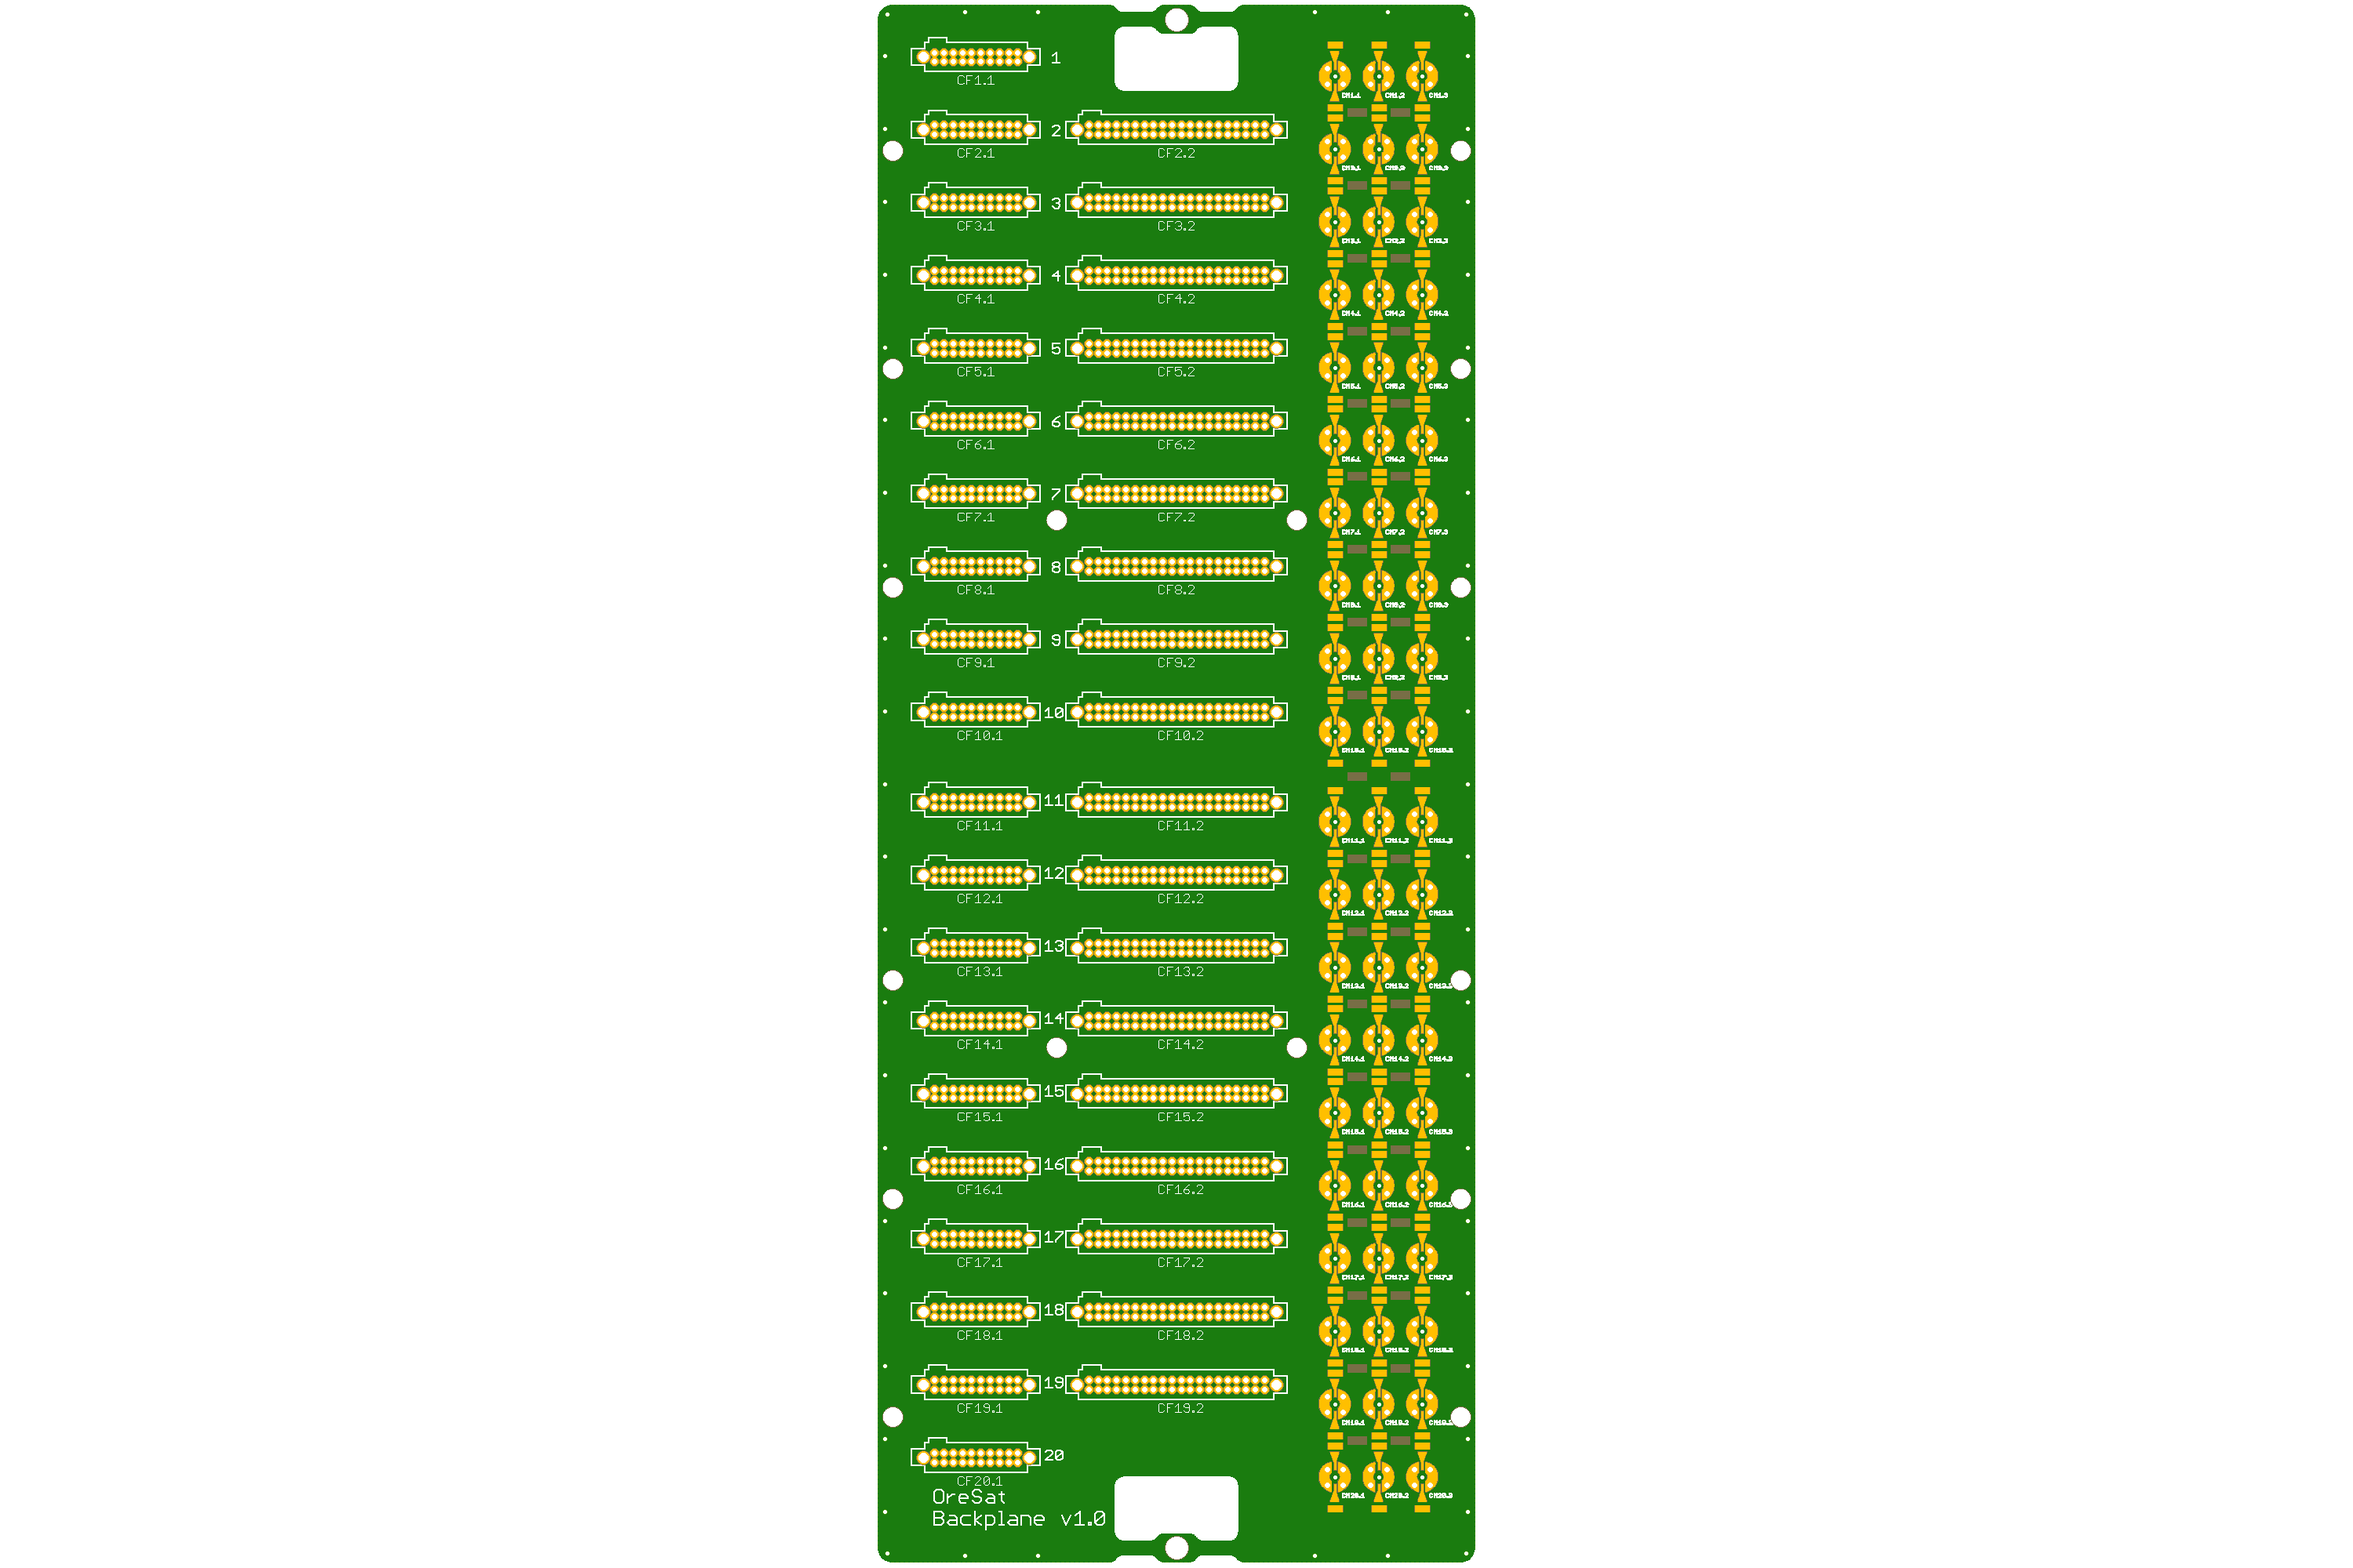
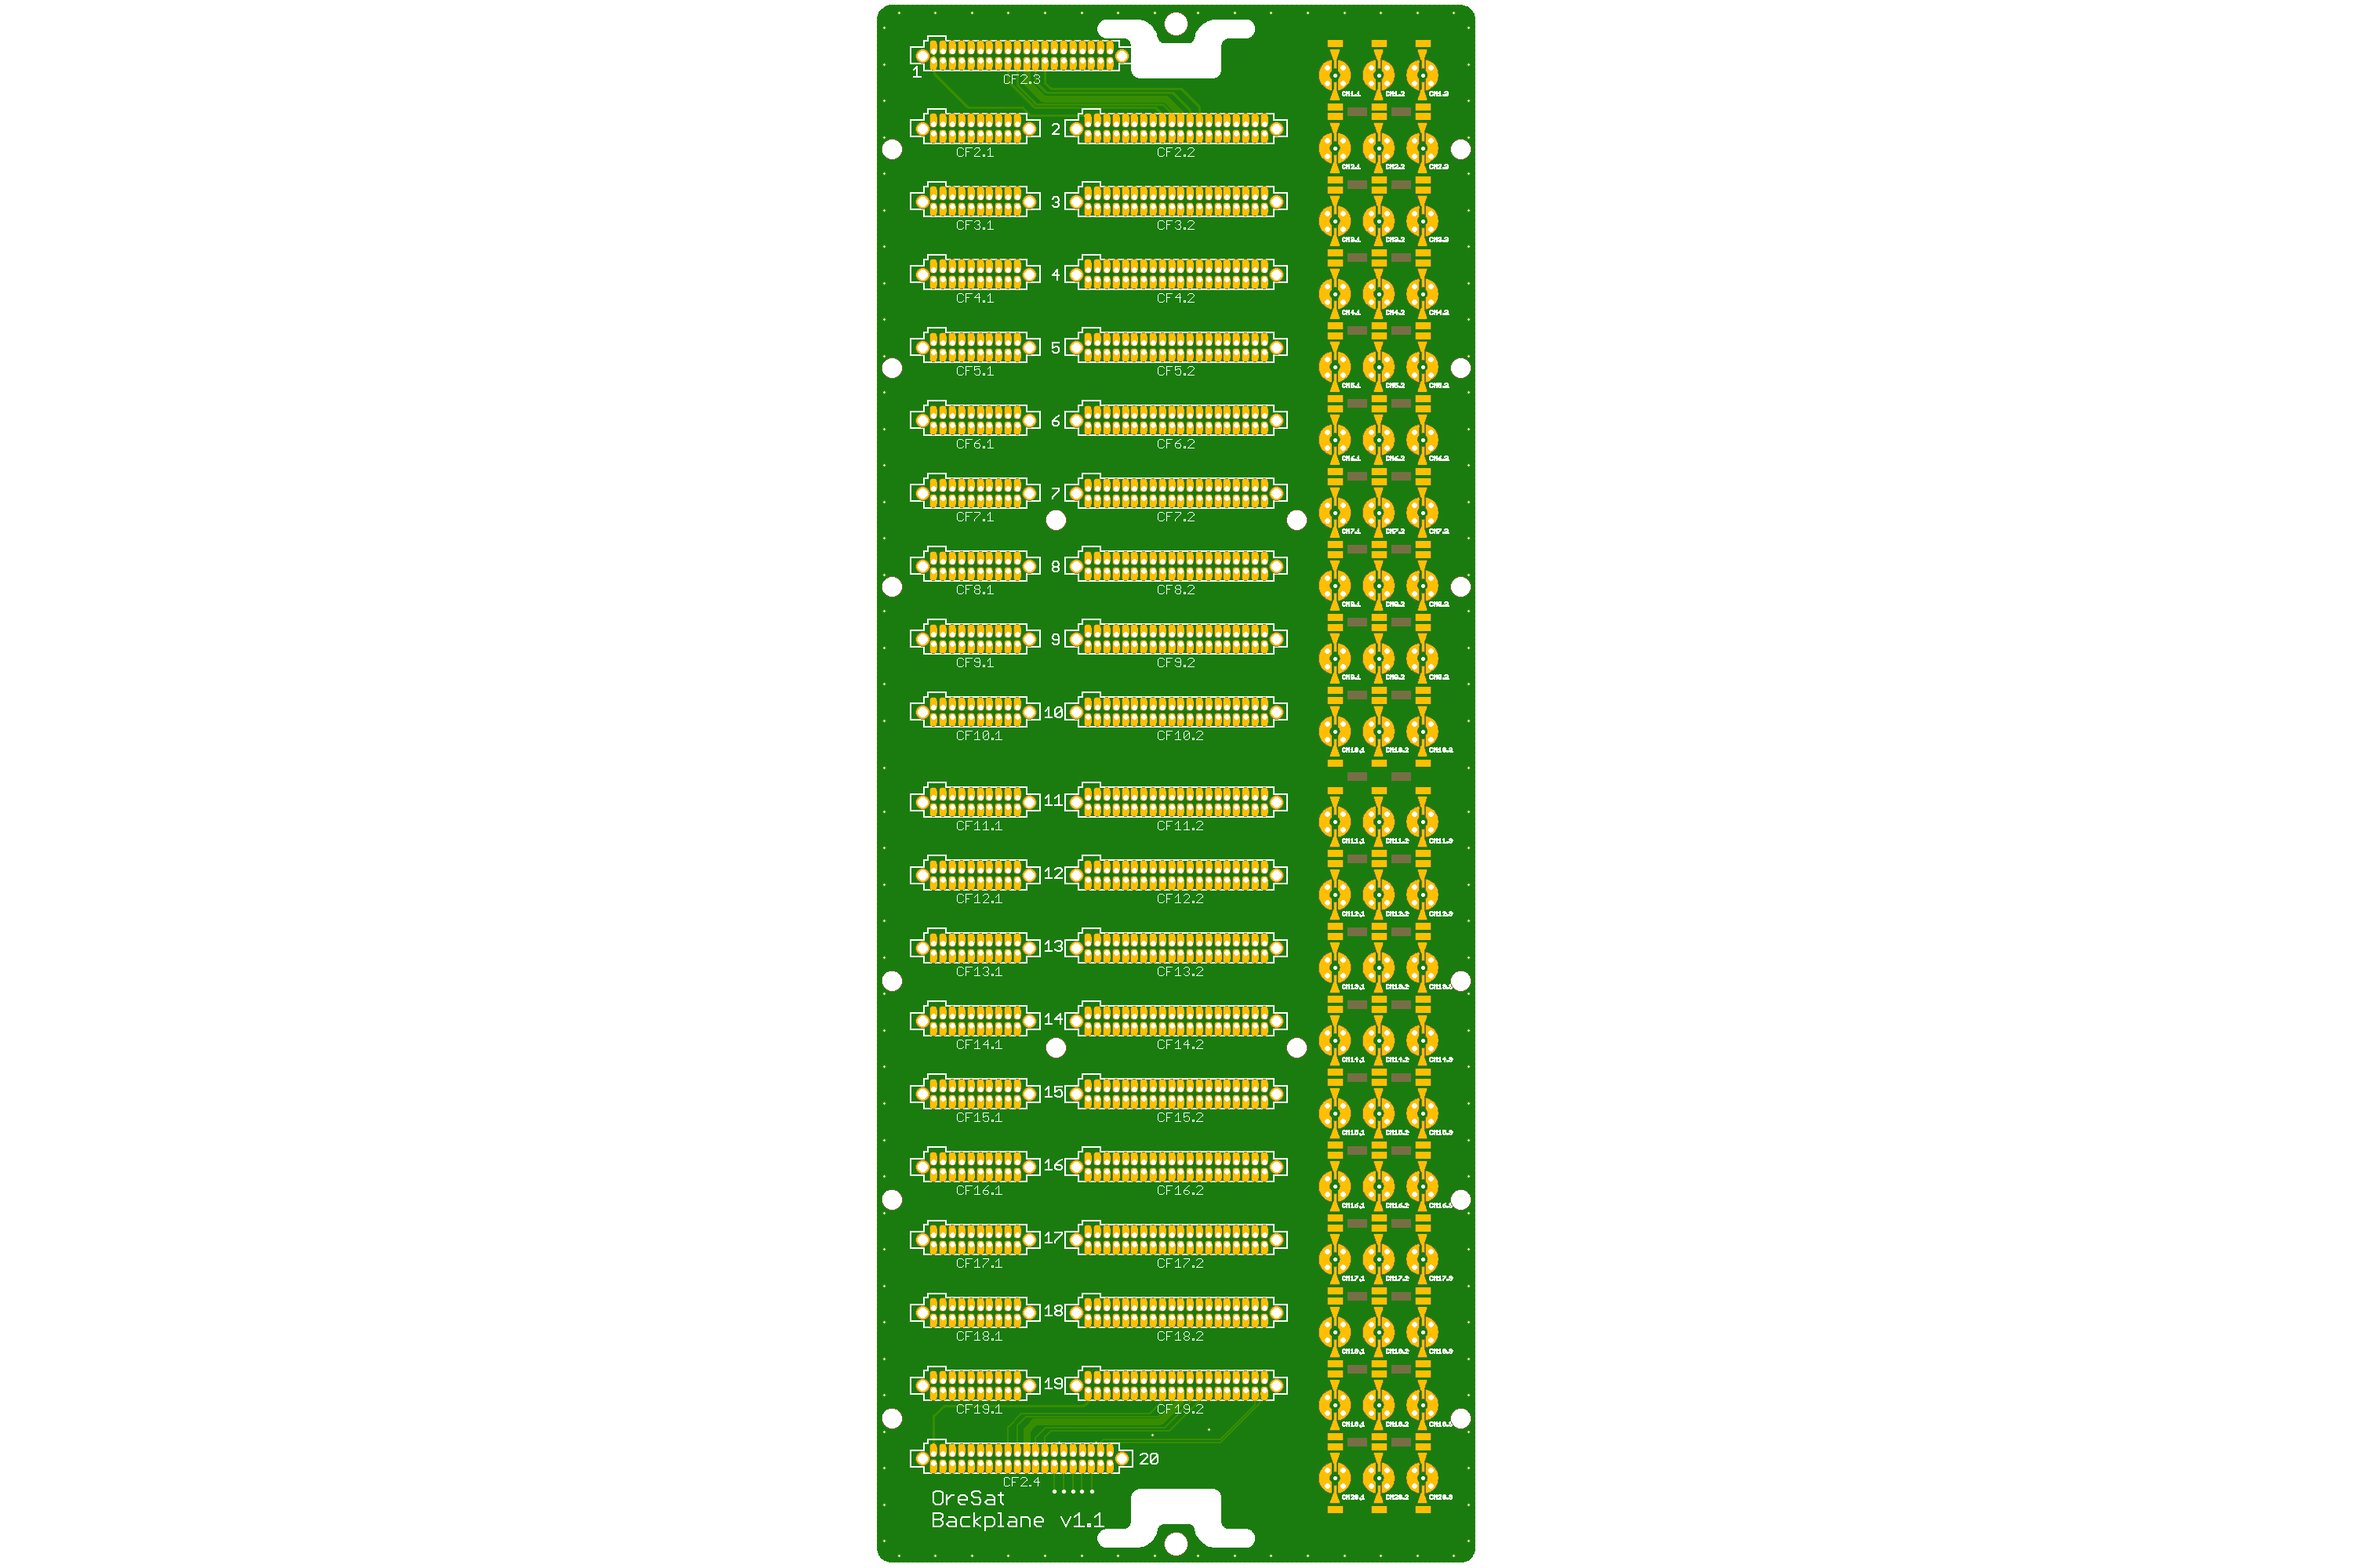
Updated picture and readme.

Changed region(s): [[0.372, 0.0, 0.62, 0.465], [0.372, 0.496, 0.62, 1.0], [0.558, 0.744, 0.62, 0.775]]

diff --git a/README.md b/README.md
@@ -2,10 +2,10 @@
 
 ## Background
 
-The [OreSat](http://oresat.org) 2U CubeSat uses a card cage / backplane topology based on a 1 Mbps Controller Area Network (CAN) bus and a 1 cell Lithium ion battery power bus (3.0 - 4.2 V). There are three sets of connectors:
+The [OreSat](http://oresat.org) 2U CubeSat uses a card cage / backplane topology based on a 1 Mbps Controller Area Network (CAN) bus and a 2 cell Lithium ion battery power bus (6.0 - 8.4 V). There are three sets of connectors:
 
-1. 20 pin Auxiliary connector, used on the top and bottom cards, which has CAN and power only.
-2. 40 pin Main connector, which has CAN, power, and a lot of spare pins for custom protocols.
+1. 20 pin Auxiliary connectors, used on the all but the "end" cards (top and bottom cards), which are for future inter-card communication.
+2. 40 pin Main connector, which has !shutdown, CAN1, power, CAN2, Power Enable (PE) lines, and then 7 spare pins for custom card stuff.
 3. SMPM RF conncectors, which allows up to 3 RF connector per card and allows for UT040 coax to be soldered down to the board.
 
 ![OreSat Backplane Picture](https://github.com/oresat/oresat-backplane/blob/master/oresat-backplane.png)
